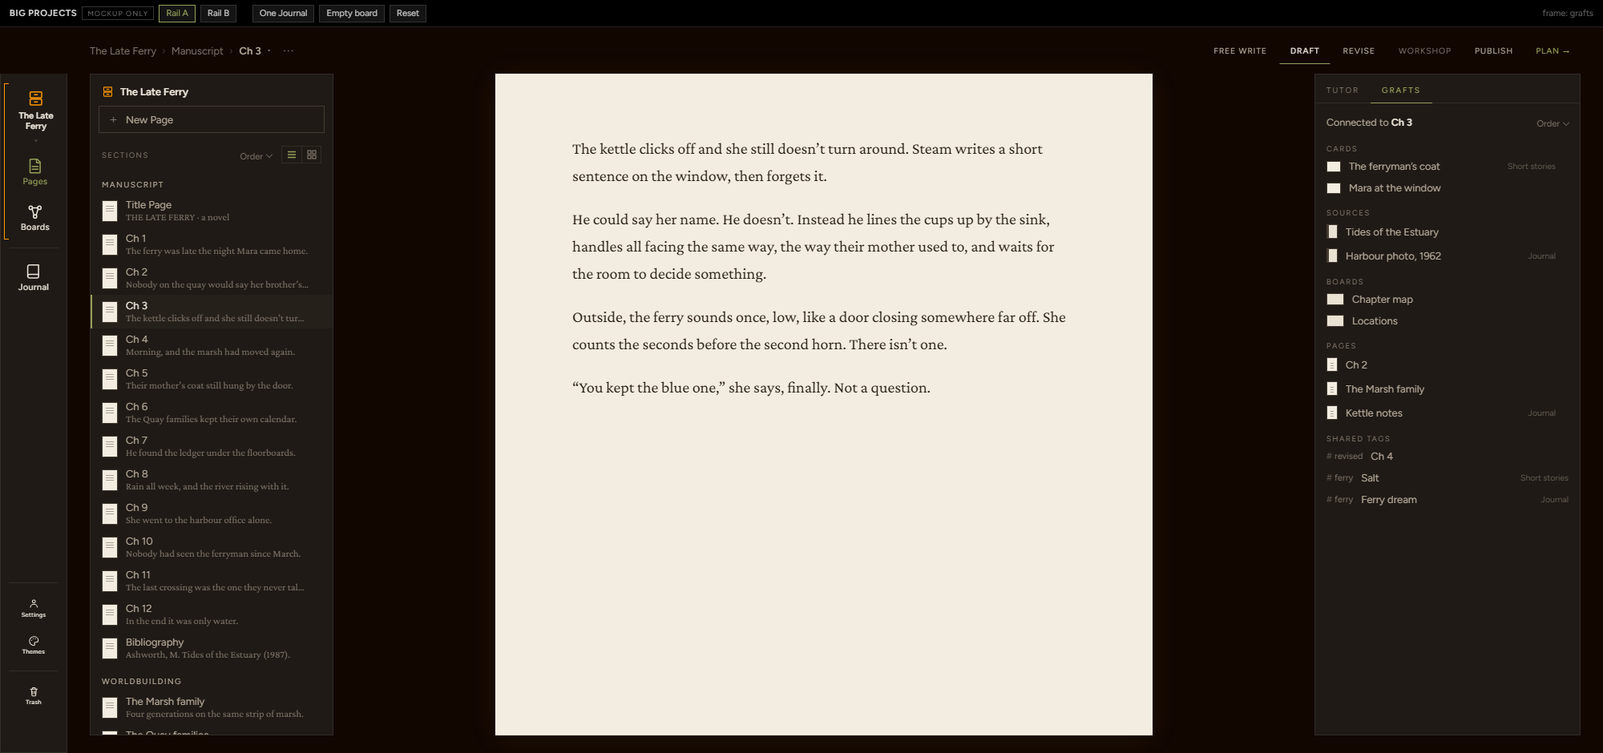
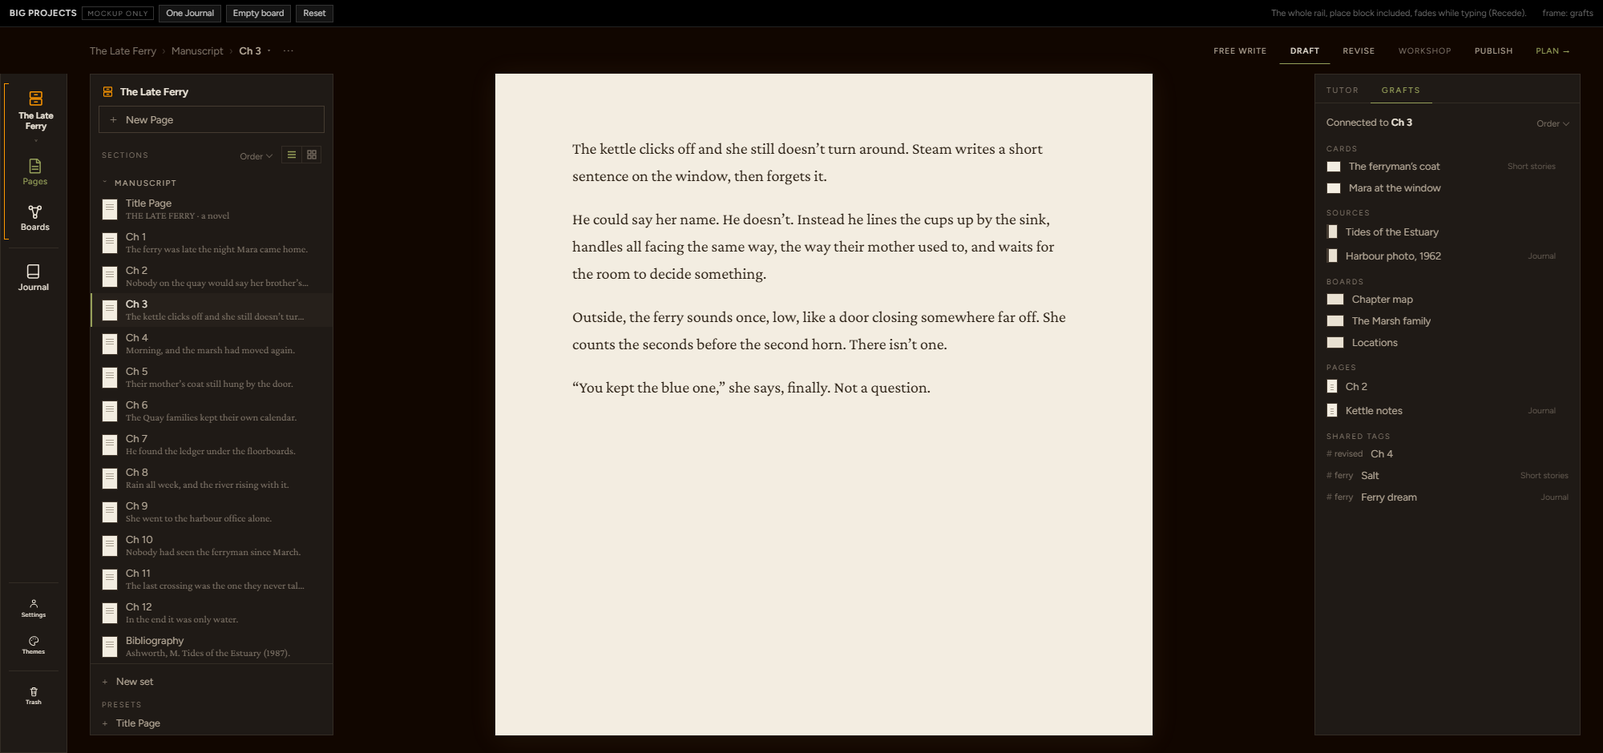
big-projects mockup (approved, fixes): default view only (brief-2 view and v2/ removed); rail A only, rail-B dropped, Recede note; sets with no pages/boards absent, non-current sets fold to a count; Marsh/Quay families are boards; row-hover frame

diff --git a/docs/mockups/big-projects/index.html b/docs/mockups/big-projects/index.html
@@ -8,12 +8,13 @@
   docs/mockups/big-projects - organizing big projects, Arbor, ~2000 x 940.
   MODEL: you are always IN a place - a DRAWER (a project) or a JOURNAL (writing with no project).
          Drawer > SET (today's binder) > SECTION (one page or board). Set headings appear only with 2+ sets.
-  RAIL A: a place block (icon + name + chevron, brass bracket over Pages and Boards), a divider, Journal; foot Settings,
-         Themes, Trash. No Shelf; Plan is renamed Boards.  RAIL B: the same, slim (icons + bracket), with the place
-         name large at the top of each pop-out.  The place block opens the switcher: Drawers, then Journals, + New Drawer,
+  RAIL (Nick picked A): a place block (icon + name + chevron, brass bracket over Pages and Boards), a divider, Journal;
+         foot Settings, Themes, Trash. No Shelf; Plan is renamed Boards. The WHOLE rail, place block included, still fades
+         while typing, the Recede way (unchanged behaviour; not animated in this mockup).  The place block opens the switcher: Drawers, then Journals, + New Drawer,
          + New Journal.  With 2+ Journals the Journal button opens a short list; with one it just goes there.
   PAGES / BOARDS pop-outs mirror each other, scoped to the place: name, + New Page / + New Board, SECTIONS with a sort
-         (Order - drag to reorder, only here - Date, Tag, Most opened, Least opened), a rows / grid toggle, X = out of the
+         (Order - drag to reorder, only here - Date, Tag, Most opened, Least opened), a rows / grid toggle. A set with no pages
+         is absent from Pages (no boards: absent from Boards); a non-current set folds to one row with a count. X = out of the
          drawer into the Journal with an Undo line (never delete), + New set, then PRESETS.
   GRAFTS: "Connected to <page>" from any place, grouped Cards / Sources / Boards / Pages (X + Undo), then Shared tags.
          Items from another place carry a faint place label.
@@ -40,7 +41,6 @@
     --sb: color-mix(in srgb, var(--text-low) 28%, transparent);
     --strip: 84px; --lt: 304px; --rt: 332px; --gap: 28px;
   }
-  html[data-rail='B'] { --strip: 56px; }
   * { box-sizing: border-box; margin: 0; padding: 0; border-radius: 0; scrollbar-width: thin; scrollbar-color: var(--sb) transparent; }
   html, body { height: 100%; overflow: hidden; }
   body { background: var(--ink-950); color: var(--text-hi); font-family: var(--font-ui); user-select: none; }
@@ -79,9 +79,6 @@
   .place .nm { max-width: 100%; font-size: 11px; font-weight: 600; line-height: 1.2; text-align: center;
     display: -webkit-box; -webkit-line-clamp: 2; -webkit-box-orient: vertical; overflow: hidden; }
   .place .chev { font-size: 8px; color: var(--text-low); line-height: 1; }
-  html[data-rail='B'] .si span, html[data-rail='B'] .place .nm { display: none; }
-  html[data-rail='B'] .si { padding: 12px 4px; }
-  html[data-rail='B'] .place { padding: 12px 4px 10px 8px; }
 
   .app { position: fixed; top: 34px; left: var(--strip); right: 0; bottom: 0; display: grid;
     grid-template-columns: var(--lt) 1fr var(--rt); grid-template-rows: 58px 1fr; column-gap: var(--gap); padding: 0 28px 22px; }
@@ -131,9 +128,6 @@
   .pophead { padding: 14px 14px 10px; display: flex; align-items: center; gap: 8px; }
   .pophead svg { width: 15px; height: 15px; color: var(--brass); flex: 0 0 auto; }
   .pophead .pn { font-size: 13px; font-weight: 600; color: var(--text-hi); min-width: 0; overflow: hidden; text-overflow: ellipsis; white-space: nowrap; }
-  html[data-rail='B'] .pophead { padding: 16px 14px 12px; }
-  html[data-rail='B'] .pophead .pn { font-size: 22px; letter-spacing: -.01em; }
-  html[data-rail='B'] .pophead svg { width: 20px; height: 20px; }
   .newbtn { display: flex; align-items: center; gap: 8px; margin: 0 10px 6px; height: 34px; padding: 0 10px; border: 1px solid var(--ink-border-strong); color: var(--text-mid); font-size: 13px; }
   .newbtn:hover { color: var(--text-hi); border-color: var(--text-low); }
   .newbtn b { font-weight: 400; font-size: 15px; line-height: 1; color: var(--text-low); }
@@ -141,10 +135,15 @@
   .tools .lab { margin-right: auto; }
   .popbody { flex: 1; min-height: 0; overflow-y: auto; overflow-x: hidden; padding: 0 0 10px; }
   .sethead { padding: 14px 14px 5px; font-size: 10px; letter-spacing: .14em; text-transform: uppercase; color: var(--text-mid); }
+  .setfold { display: flex; align-items: center; gap: 8px; width: 100%; padding: 12px 14px 5px; text-align: left; font-size: 10px; letter-spacing: .14em; text-transform: uppercase; color: var(--text-mid); }
+  .setfold:hover { color: var(--text-hi); }
+  .setfold .cv { font-size: 9px; color: var(--text-low); width: 8px; transition: transform .12s; }
+  .setfold[aria-expanded='true'] .cv { transform: rotate(90deg); }
+  .setfold .ct { margin-left: auto; letter-spacing: 0; font-size: 11px; color: var(--text-low); }
   .taghead { padding: 10px 14px 3px; font-size: 10.5px; color: var(--text-low); }
   .taghead::before, .tagm::before { content: '#'; margin-right: 3px; opacity: .7; }
   .row { position: relative; display: flex; align-items: center; gap: 10px; width: 100%; padding: 6px 30px 6px 12px; border-left: 2px solid transparent; text-align: left; color: var(--text-mid); }
-  .row:hover { background: var(--ink-800); color: var(--text-hi); }
+  .row:hover, .row.hover { background: var(--ink-800); color: var(--text-hi); }
   .row[aria-current='true'] { color: var(--text-hi); border-left-color: var(--accent-rest); background: color-mix(in srgb, var(--ink-800) 70%, transparent); }
   .row .tx { flex: 1; min-width: 0; display: flex; flex-direction: column; gap: 1px; }
   .row .t { font-size: 13px; overflow: hidden; text-overflow: ellipsis; white-space: nowrap; }
@@ -152,8 +151,8 @@
   .row[data-drag='true'] { cursor: grab; }
   .row.dragging { opacity: .4; }
   .row.over { box-shadow: inset 0 2px 0 var(--accent-rest); }
-  .x { position: absolute; right: 8px; top: 50%; transform: translateY(-50%); width: 18px; height: 18px; display: grid; place-items: center; color: var(--text-low); font-size: 13px; opacity: 0; }
-  .row:hover .x, .tile:hover .x, .x:focus-visible, .gr:hover .x { opacity: 1; }
+  .x { position: absolute; right: 8px; top: 50%; transform: translateY(-50%); width: 18px; height: 18px; display: grid; place-items: center; color: var(--text-mid); font-size: 16px; line-height: 1; opacity: 0; }
+  .row:hover .x, .row.hover .x, .tile:hover .x, .x:focus-visible, .gr:hover .x { opacity: 1; }
   .x:hover { color: var(--text-hi); }
   .mini { flex: 0 0 auto; width: 20px; height: 27px; background: var(--paper); border: 1px solid var(--ink-border-strong); position: relative; }
   .mini::before { content: ''; position: absolute; left: 4px; right: 4px; top: 6px; height: 9px; background: repeating-linear-gradient(to bottom, var(--ink-on-paper-low) 0 1px, transparent 1px 3px); opacity: .55; }
@@ -302,49 +301,19 @@
   .tagm { flex: 0 0 auto; font-size: 11px; color: var(--text-low); }
   .gr.tagged { padding-right: 14px; }
 
-  /* ---- brief 2 (Fable's second relay, Oct 18 5:55): Drawers rail item, switcher in the pop-out head, folded sets, place chip ---- */
-  #railDrawers, .b2only { display: none; }
-  html[data-brief='2'] #railDrawers { display: flex; }
-  html[data-brief='2'] .b2only { display: block; }
-  html[data-brief='2'] .b1only, html[data-brief='2'] #placeBtn { display: none; }
-  html[data-brief='2'] .bracket::before { display: none; }
-  html[data-brief='2'] .bracket { padding-left: 0; }
-  .pswitch { display: flex; align-items: center; gap: 8px; max-width: 100%; padding: 4px 6px; margin: -4px -6px; border: 1px solid transparent; color: var(--text-hi); font-size: 13px; font-weight: 600; }
-  .pswitch:hover, .pswitch[aria-expanded='true'] { border-color: var(--ink-border-strong); }
-  .pswitch svg { width: 15px; height: 15px; color: var(--text-low); flex: 0 0 auto; }
-  .pswitch .pn { min-width: 0; overflow: hidden; text-overflow: ellipsis; white-space: nowrap; }
-  .pswitch i { font-style: normal; font-weight: 400; font-size: 9px; color: var(--text-low); }
-  .setfold { display: flex; align-items: center; gap: 8px; width: 100%; padding: 12px 14px 5px; text-align: left; font-size: 10px; letter-spacing: .14em; text-transform: uppercase; color: var(--text-mid); }
-  .setfold:hover { color: var(--text-hi); }
-  .setfold .cv { font-size: 9px; color: var(--text-low); width: 8px; transition: transform .12s; }
-  .setfold[aria-expanded='true'] .cv { transform: rotate(90deg); }
-  .setfold .ct { margin-left: auto; letter-spacing: 0; font-size: 11px; color: var(--text-low); }
-  .pchip { position: absolute; top: 26px; left: 96px; display: inline-flex; align-items: center; gap: 6px; height: 24px; padding: 0 9px;
-    border: 1px solid color-mix(in srgb, var(--ink-on-paper-low) 45%, transparent); color: var(--ink-on-paper-low); font-size: 11.5px; font-family: var(--font-ui); background: var(--paper); }
-  .pchip:hover, .pchip[aria-expanded='true'] { color: var(--ink-on-paper); border-color: var(--ink-on-paper-low); }
-  .pchip[hidden] { display: none; }
-  .pchip i { font-style: normal; font-size: 9px; }
-  .page { position: relative; }
-  .ph { color: var(--ink-on-paper-low); opacity: .55; }
-
   @media (prefers-reduced-motion: reduce) { * { transition: none !important; animation: none !important; } }
 </style>
 </head>
 <body>
 <header class="rig">
   <b>BIG PROJECTS</b><span class="only">mockup only</span>
-  <button class="rev" data-rail="A" type="button">Rail A</button>
-  <button class="rev" data-rail="B" type="button">Rail B</button>
-  <span class="sp"></span>
   <button class="rev" id="onej" type="button">One Journal</button>
   <button class="rev" id="boardsurf" type="button">Empty board</button>
   <button class="rev" id="reset" type="button">Reset</button>
-  <span class="fr" id="frname"></span>
+  <span class="fr">The whole rail, place block included, fades while typing (Recede).</span><span class="fr" id="frname" style="margin-left:14px"></span>
 </header>
 
 <aside class="strip" aria-label="Strip">
-  <button class="si" id="railDrawers" type="button" aria-pressed="false" title="Drawers" aria-haspopup="menu" aria-expanded="false">
-    <svg viewBox="0 0 24 24" fill="none" stroke="currentColor" stroke-width="1.7" stroke-linecap="round" stroke-linejoin="round"><rect x="4" y="3" width="16" height="8" rx="1"/><rect x="4" y="13" width="16" height="8" rx="1"/><path d="M10 7h4M10 17h4"/></svg><span>Drawers</span></button>
   <div class="bracket">
     <button class="place" id="placeBtn" type="button" aria-haspopup="menu" aria-expanded="false"><span id="placeIcon"></span><span class="nm" id="placeName"></span><span class="chev">⌄</span></button>
     <button class="si" id="railPages" type="button" aria-pressed="false" title="Pages">
@@ -383,7 +352,6 @@
 
   <div class="pagecol">
     <div class="page" id="page">
-      <button class="pchip" id="pchip" type="button" aria-haspopup="menu" aria-expanded="false" hidden><span></span><i>⌄</i></button>
       <div class="sheetpage" id="prose"></div>
     </div>
     <div class="board" id="board" hidden>
@@ -453,24 +421,16 @@
 
 <!-- the page's "..." menu -->
 <div class="menu" id="menu" role="menu" hidden>
-  <div class="b1only">
-    <button type="button" role="menuitem">Copy Page</button>
-    <button type="button" role="menuitem" id="openfile">File Page…</button>
-    <button type="button" role="menuitem" class="opensettings">Page Settings…</button>
-    <hr>
-    <button type="button" role="menuitem">Delete</button>
-  </div>
-  <div class="b2only">
-    <button type="button" role="menuitem" class="opensettings">Page setup…</button>
-    <button type="button" role="menuitem">Copy page text</button>
-    <hr>
-    <button type="button" role="menuitem">Delete page</button>
-  </div>
+  <button type="button" role="menuitem">Copy Page</button>
+  <button type="button" role="menuitem" id="openfile">File Page…</button>
+  <button type="button" role="menuitem" id="opensettings">Page Settings…</button>
+  <hr>
+  <button type="button" role="menuitem">Delete</button>
 </div>
 
 <!-- Page Settings sheet (round 2's Page Setup, renamed) -->
 <div class="sheet" id="settings" role="dialog" aria-label="Page Settings" hidden>
-  <h2><span class="b1only">Page Settings</span><span class="b2only">Page setup</span> <button type="button" data-close aria-label="Close">×</button></h2>
+  <h2>Page Settings <button type="button" data-close aria-label="Close">×</button></h2>
   <div class="srow"><span class="sl">Margins</span><div class="seg" role="radiogroup"><button type="button" role="radio" aria-checked="true">Normal</button><button type="button" role="radio" aria-checked="false">Narrow</button><button type="button" role="radio" aria-checked="false">Wide</button></div></div>
   <div class="srow"><label class="sl" for="leading">Line spacing</label><input class="range" id="leading" type="range" min="1.2" max="2.2" step="0.1" value="1.7"><span class="rval" id="leadval">1.7</span></div>
   <div class="srow"><span class="sl">Page numbers</span><button class="tog" type="button" aria-pressed="false">Off</button></div>
@@ -510,8 +470,8 @@
       drawers: [
         { id: 'ferry', name: 'The Late Ferry', sets: [
           { name: 'Manuscript', pages: manuscript, boards: [bd('Chapter map', 14, 'structure', 3, 11), bd('Timeline', 22, 'structure', 8, 4)] },
-          { name: 'Worldbuilding', pages: [pg('The Marsh family', 'Four generations on the same strip of marsh.', 'people', 20, 6), pg('The Quay families', 'Six names, and none of them forgive.', 'people', 18, 3)],
-            boards: [bd('Locations', 9, 'places', 15, 5), bd('Mood', 16, 'mood', 30, 2)] }
+          { name: 'Worldbuilding', pages: [],
+            boards: [bd('The Marsh family', 12, 'people', 20, 6), bd('The Quay families', 8, 'people', 18, 3), bd('Locations', 9, 'places', 15, 5), bd('Mood', 16, 'mood', 30, 2)] }
         ] },
         { id: 'short', name: 'Short stories', sets: [
           { name: 'Stories', pages: [pg('The Lighthouse Keeper', 'He counted ships the way other men counted sheep.', 'draft', 5, 7), pg('Salt', 'The sea came in through the kitchen.', 'ferry', 9, 4),
@@ -531,13 +491,11 @@
   }
   fresh();
 
-  var B2 = qs.get('brief') === '2';
-  document.documentElement.dataset.brief = B2 ? '2' : '1';
   var S = { rail: 'A', folded: {}, pop: null, view: { pages: 'rows', boards: 'grid' }, sort: { pages: 'Order', boards: 'Order', pagesJ: 'Date', boardsJ: 'Date', grafts: 'Order' }, oneJournal: false, surface: 'page', undo: null, gundo: null, tab: 'tutor' };
   var SORTS = ['Order', 'Date', 'Tag', 'Most opened', 'Least opened'];
 
   function placeObj() { return PLACE.kind === 'drawer' ? DATA.drawers.find(function (d) { return d.id === PLACE.id; }) : DATA.journals.find(function (j) { return j.id === PLACE.id; }); }
-  function journals() { return (S.oneJournal || B2) ? DATA.journals.slice(0, 1) : DATA.journals; }
+  function journals() { return S.oneJournal ? DATA.journals.slice(0, 1) : DATA.journals; }
   function esc(s) { return String(s).replace(/[&<>"]/g, function (c) { return { '&': '&amp;', '<': '&lt;', '>': '&gt;', '"': '&quot;' }[c]; }); }
   function findHome(item) {
     var out = null;
@@ -555,8 +513,6 @@
     $('#railPages').setAttribute('aria-pressed', String(S.pop === 'pages'));
     $('#railBoards').setAttribute('aria-pressed', String(S.pop === 'boards'));
     $('#railJournal').setAttribute('aria-pressed', String(PLACE.kind === 'journal'));
-    document.documentElement.dataset.rail = S.rail;
-    document.querySelectorAll('.rev[data-rail]').forEach(function (b) { b.dataset.on = String(b.dataset.rail === S.rail); });
     $('#onej').dataset.on = String(S.oneJournal);
     $('#boardsurf').dataset.on = String(S.surface === 'board');
   }
@@ -574,10 +530,7 @@
     $('#dots').addEventListener('click', function (e) { e.stopPropagation(); toggleOverlay('menu', this); });
   }
   var CH3TEXT = '<p>The kettle clicks off and she still doesn’t turn around. Steam writes a short sentence on the window, then forgets it.</p><p>He could say her name. He doesn’t. Instead he lines the cups up by the sink, handles all facing the same way, the way their mother used to, and waits for the room to decide something.</p><p>Outside, the ferry sounds once, low, like a door closing somewhere far off. She counts the seconds before the second horn. There isn’t one.</p><p>“You kept the blue one,” she says, finally. Not a question.</p>';
-  function homeLabel(it) { var h = findHome(it); if (!h) return 'Journal'; if (h.journal) return h.journal.name; return h.drawer.sets.length > 1 ? h.drawer.name + ' · ' + h.set.name : h.drawer.name; }
-  function renderChip() { var c = $('#pchip'), h = findHome(cur); var show = B2 && S.surface === 'page' && (cur.isNew || (h && h.journal)); c.hidden = !show; if (show) c.querySelector('span').textContent = homeLabel(cur); }
-  function newPage() { var it = pg('Untitled', '', 'new', 0, 0); it.isNew = true; var p = placeObj(); if (PLACE.kind === 'drawer') { var h = findHome(cur); var set = (h && h.drawer === p) ? h.set : p.sets[0]; set.pages.push(it); } else p.pages.unshift(it); cur = it; $('#titlein').value = it.t; render(); }
-  function renderSurface() { renderChip(); $('#prose').innerHTML = cur === ch3 ? CH3TEXT : cur.isNew ? '<p class="ph">Start anywhere.</p>' : '<p>' + esc(cur.fl) + '</p>'; $('#page').hidden = S.surface !== 'page'; $('#board').hidden = S.surface !== 'board'; $('#modes').hidden = S.surface !== 'page'; }
+  function renderSurface() { $('#prose').innerHTML = cur === ch3 ? CH3TEXT : '<p>' + esc(cur.fl) + '</p>'; $('#page').hidden = S.surface !== 'page'; $('#board').hidden = S.surface !== 'board'; $('#modes').hidden = S.surface !== 'page'; }
 
   // ---------------- sort ----------------
   function sorted(list, how) {
@@ -643,15 +596,13 @@
     if (!S.pop) { pop.hidden = true; pop.innerHTML = ''; return; }
     var kind = S.pop, p = placeObj(), isDrawer = PLACE.kind === 'drawer', view = S.view[kind], skey = isDrawer ? kind : kind + 'J';
     pop.hidden = false; pop.setAttribute('aria-label', kind === 'pages' ? 'Pages' : 'Boards');
-    pop.innerHTML = (B2 ? '<div class="pophead"><button class="pswitch" id="pswitch" type="button" aria-haspopup="menu" aria-expanded="false">' + (isDrawer ? ICON.drawer : ICON.journal) + '<span class="pn"></span><i>⌄</i></button></div>' : '<div class="pophead">' + (isDrawer ? ICON.drawer : ICON.journal) + '<span class="pn"></span></div>') +
+    pop.innerHTML = '<div class="pophead">' + (isDrawer ? ICON.drawer : ICON.journal) + '<span class="pn"></span></div>' +
       '<button class="newbtn" type="button"><b>＋</b>' + (kind === 'pages' ? 'New Page' : 'New Board') + '</button>' +
       '<div class="tools"><span class="lab">' + (isDrawer ? 'Sections' : 'Pages') + '</span><span id="sortslot"></span><div class="views" role="group" aria-label="View">' +
       '<button type="button" data-v="rows" aria-label="Rows" aria-pressed="' + (view === 'rows') + '">' + ICON.rows + '</button>' +
       '<button type="button" data-v="grid" aria-label="Grid" aria-pressed="' + (view === 'grid') + '">' + ICON.grid + '</button></div></div>' +
       '<div class="popbody" id="popbody"></div><div class="undo" id="undo" hidden></div>';
     pop.querySelector('.pn').textContent = p.name;
-    if (B2) pop.querySelector('#pswitch').addEventListener('click', function (e) { e.stopPropagation(); toggleOverlay('switcher', this); });
-    pop.querySelector('.newbtn').addEventListener('click', function () { if (kind === 'pages') newPage(); });
     pop.querySelector('#sortslot').replaceWith(sortControl(skey, isDrawer ? SORTS : SORTS.slice(1)));
     pop.querySelectorAll('.views button').forEach(function (b) { b.addEventListener('click', function () { S.view[kind] = b.dataset.v; render(); }); });
     var body = pop.querySelector('#popbody'), how = S.sort[skey];
@@ -660,15 +611,15 @@
       p.sets.forEach(function (set) {
         var list = set[kind]; if (!list.length) return; any = true;
         var folded = false;
-        if (showSets && B2) {
-          var home = findHome(cur), isCurSet = home && home.set === set;
-          folded = S.folded[set.name] != null ? S.folded[set.name] : !isCurSet;
+        if (showSets) {
+          var home = findHome(cur), key = kind + ':' + set.name;
+          folded = S.folded[key] != null ? S.folded[key] : !(home && home.set === set);
           var fb = document.createElement('button'); fb.type = 'button'; fb.className = 'setfold'; fb.setAttribute('aria-expanded', String(!folded));
           fb.innerHTML = '<span class="cv">›</span><span></span>' + (folded ? '<span class="ct">' + list.length + '</span>' : '');
           fb.children[1].textContent = set.name;
-          fb.addEventListener('click', function () { S.folded[set.name] = !folded; render(); });
+          fb.addEventListener('click', function () { S.folded[key] = !folded; render(); });
           body.appendChild(fb);
-        } else if (showSets) { var h = document.createElement('div'); h.className = 'sethead'; h.textContent = set.name; body.appendChild(h); }
+        }
         if (folded) return;
         var items = sorted(list, how);
         if (how === 'Tag') {
@@ -698,7 +649,7 @@
       body.appendChild(f2);
     }
     var u = pop.querySelector('#undo');
-    if (S.undo) { u.hidden = false; u.innerHTML = '<span></span><button type="button">Undo</button>'; u.querySelector('span').textContent = S.undo.it.t + (B2 ? ' is back in the Journal.' : ' moved to the Journal.');
+    if (S.undo) { u.hidden = false; u.innerHTML = '<span></span><button type="button">Undo</button>'; u.querySelector('span').textContent = S.undo.it.t + ' moved to the Journal.';
       u.querySelector('button').addEventListener('click', function () { undoMove(); }); }
   }
   function toJournal(it, list) {
@@ -717,8 +668,8 @@
     GRAFTS = {
       Cards: [{ t: 'The ferryman’s coat', plc: 'Short stories', d: 4, op: 3 }, { t: 'Mara at the window', plc: '', d: 1, op: 6 }],
       Sources: [{ t: 'Tides of the Estuary', plc: '', d: 12, op: 2 }, { t: 'Harbour photo, 1962', plc: 'Journal', d: 6, op: 2 }],
-      Boards: [{ t: 'Chapter map', plc: '', d: 3, op: 11 }, { t: 'Locations', plc: '', d: 15, op: 5 }],
-      Pages: [{ t: 'Ch 2', plc: '', d: 2, op: 9 }, { t: 'The Marsh family', plc: '', d: 20, op: 6 }, { t: 'Kettle notes', plc: 'Journal', d: 0, op: 3 }]
+      Boards: [{ t: 'Chapter map', plc: '', d: 3, op: 11 }, { t: 'The Marsh family', plc: '', d: 20, op: 6 }, { t: 'Locations', plc: '', d: 15, op: 5 }],
+      Pages: [{ t: 'Ch 2', plc: '', d: 2, op: 9 }, { t: 'Kettle notes', plc: 'Journal', d: 0, op: 3 }]
     };
   }
   freshGrafts();
@@ -768,8 +719,8 @@
   function renderSwitcher() {
     var m = $('#switcher');
     m.innerHTML = '<span class="lab">Drawers</span>' + DATA.drawers.map(function (d) { return prRow(ICON.drawer, d.name, PLACE.kind === 'drawer' && PLACE.id === d.id, ' data-d="' + d.id + '"'); }).join('') +
-      (B2 ? '<hr>' : '<span class="lab">Journals</span>') + journals().map(function (j) { return prRow(ICON.journal, j.name, PLACE.kind === 'journal' && PLACE.id === j.id, ' data-j="' + j.id + '"'); }).join('') +
-      '<hr><button class="pr add" type="button"><b>+</b><span class="t">New Drawer</span></button>' + (B2 ? '' : '<button class="pr add" type="button"><b>+</b><span class="t">New Journal</span></button>');
+      '<span class="lab">Journals</span>' + journals().map(function (j) { return prRow(ICON.journal, j.name, PLACE.kind === 'journal' && PLACE.id === j.id, ' data-j="' + j.id + '"'); }).join('') +
+      '<hr><button class="pr add" type="button"><b>+</b><span class="t">New Drawer</span></button><button class="pr add" type="button"><b>+</b><span class="t">New Journal</span></button>';
     m.querySelectorAll('[data-d]').forEach(function (b) { b.addEventListener('click', function () { go({ kind: 'drawer', id: b.dataset.d }); }); });
     m.querySelectorAll('[data-j]').forEach(function (b) { b.addEventListener('click', function () { go({ kind: 'journal', id: b.dataset.j }); }); });
   }
@@ -826,8 +777,6 @@
     el.hidden = false; if (anchor) { anchor.setAttribute('aria-expanded', 'true'); placeAt(el, anchor, side); }
   }
   $('#placeBtn').addEventListener('click', function (e) { e.stopPropagation(); toggleOverlay('switcher', this, 'right'); });
-  $('#railDrawers').addEventListener('click', function (e) { e.stopPropagation(); toggleOverlay('switcher', this, 'right'); });
-  $('#pchip').addEventListener('click', function (e) { e.stopPropagation(); var a = this; closeAll(); openDrawerInFiler = 'ferry'; renderFiler(); $('#filer').hidden = false; a.setAttribute('aria-expanded', 'true'); placeAt($('#filer'), a); });
   $('#railPages').addEventListener('click', function () { S.pop = S.pop === 'pages' ? null : 'pages'; render(); });
   $('#railBoards').addEventListener('click', function () { S.pop = S.pop === 'boards' ? null : 'boards'; render(); });
   $('#railJournal').addEventListener('click', function (e) {
@@ -835,7 +784,7 @@
     if (journals().length > 1) toggleOverlay('jlist', this, 'right'); else go({ kind: 'journal', id: journals()[0].id });
   });
   $('#openfile').addEventListener('click', function (e) { e.stopPropagation(); var a = $('#dots'); closeAll(); openDrawerInFiler = 'ferry'; renderFiler(); $('#filer').hidden = false; placeAt($('#filer'), a); });
-  document.querySelectorAll('.opensettings').forEach(function (o) { o.addEventListener('click', function (e) { e.stopPropagation(); closeAll(); var s = $('#settings'), r = $('#page').getBoundingClientRect(); s.hidden = false; s.style.left = Math.round(r.left + (r.width - 360) / 2) + 'px'; s.style.top = Math.round(r.top + 70) + 'px'; }); });
+  $('#opensettings').addEventListener('click', function (e) { e.stopPropagation(); closeAll(); var s = $('#settings'), r = $('#page').getBoundingClientRect(); s.hidden = false; s.style.left = Math.round(r.left + (r.width - 360) / 2) + 'px'; s.style.top = Math.round(r.top + 70) + 'px'; });
   $('#settings').querySelectorAll('[data-close]').forEach(function (b) { b.addEventListener('click', closeAll); });
   $('#settings').querySelectorAll('.seg').forEach(function (g) { g.querySelectorAll('button').forEach(function (b) { b.addEventListener('click', function () { g.querySelectorAll('button').forEach(function (x) { x.setAttribute('aria-checked', 'false'); }); b.setAttribute('aria-checked', 'true'); }); }); });
   $('#settings').querySelectorAll('.tog').forEach(function (t) { t.addEventListener('click', function () { var on = t.getAttribute('aria-pressed') !== 'true'; t.setAttribute('aria-pressed', String(on)); t.textContent = on ? 'On' : 'Off'; }); });
@@ -853,13 +802,12 @@
     p.hidden = false; this.setAttribute('aria-expanded', 'true'); placeAt(p, this, 'right');
   });
   document.addEventListener('pointerdown', function (e) {
-    if (e.target.closest('.pick, .card, .picker, .menu, .sheet, .sortw, #placeBtn, #railJournal, #railDrawers, #pswitch, #pchip, #here, #dots')) return;
+    if (e.target.closest('.pick, .card, .picker, .menu, .sheet, .sortw, #placeBtn, #railJournal, #here, #dots')) return;
     closeAll();
   }, true);
   document.addEventListener('keydown', function (e) { if (e.key === 'Escape') closeAll(); });
 
   // ---------------- rig ----------------
-  document.querySelectorAll('.rev[data-rail]').forEach(function (b) { b.addEventListener('click', function () { S.rail = b.dataset.rail; closeAll(); render(); }); });
   $('#onej').addEventListener('click', function () { S.oneJournal = !S.oneJournal; if (S.oneJournal && PLACE.kind === 'journal') PLACE = { kind: 'journal', id: 'journal' }; closeAll(); render(); });
   $('#boardsurf').addEventListener('click', function () { S.surface = S.surface === 'board' ? 'page' : 'board'; closeAll(); render(); });
   $('#reset').addEventListener('click', function () { location.search = ''; });
@@ -869,7 +817,6 @@
   // ---------------- frames ----------------
   var FRAMES = {
     'rail-A':          function () { S.rail = 'A'; },
-    'rail-B':          function () { S.rail = 'B'; S.pop = 'pages'; },
     'switcher-open':   function () { S.pop = 'pages'; return function () { toggleOverlay('switcher', $('#placeBtn'), 'right'); }; },
     'pages-rows':      function () { S.pop = 'pages'; },
     'pages-grid':      function () { S.pop = 'pages'; S.view.pages = 'grid'; },
@@ -882,21 +829,12 @@
     'file-page-picker':function () { S.pop = 'pages'; return function () { $('#dots').click(); $('#openfile').click(); }; },
     'page-menu':       function () { S.pop = 'pages'; return function () { $('#dots').click(); }; },
     'undo-line':       function () { S.pop = 'pages'; var set = DATA.drawers[0].sets[0]; toJournal(set.pages[7], set.pages); },
-    'empty-board':     function () { S.surface = 'board'; S.pop = 'boards'; }
+    'empty-board':     function () { S.surface = 'board'; S.pop = 'boards'; },
+    'row-hover':       function () { S.pop = 'pages'; return function () { document.querySelectorAll('#pop .row').forEach(function (r) { if (r.querySelector('.t').textContent === 'Ch 4') r.classList.add('hover'); }); }; }
   };
-  var FRAMES2 = {
-    'pages-rows':     function () { S.pop = 'pages'; },
-    'pages-grid':     function () { S.pop = 'pages'; S.view.pages = 'grid'; },
-    'pages-sort-tag': function () { S.pop = 'pages'; S.sort.pages = 'Tag'; },
-    'boards-grid':    function () { S.pop = 'boards'; },
-    'grafts':         function () { S.pop = 'pages'; S.tab = 'grafts'; },
-    'journal-page':   function () { PLACE = { kind: 'journal', id: 'journal' }; cur = DATA.journals[0].pages[1]; $('#titlein').value = cur.t; S.pop = 'pages'; },
-    'new-page-chip':  function () { PLACE = { kind: 'journal', id: 'journal' }; S.pop = 'pages'; newPage(); return function () { $('#pchip').click(); }; },
-    'undo-line':      function () { S.pop = 'pages'; var set = DATA.drawers[0].sets[0]; toJournal(set.pages[7], set.pages); }
-  };
-  var frame = qs.get('frame'), after = null, FR = B2 ? FRAMES2 : FRAMES;
-  if (frame && FR[frame]) after = FR[frame]();
-  $('#frname').textContent = (B2 ? 'brief 2 · ' : '') + (frame ? 'frame: ' + frame : '');
+  var frame = qs.get('frame'), after = null;
+  if (frame && FRAMES[frame]) after = FRAMES[frame]();
+  $('#frname').textContent = frame ? 'frame: ' + frame : '';
   render();
   if (after) after();
   if (document.fonts && after) document.fonts.ready.then(function () { closeAll(); after(); });
